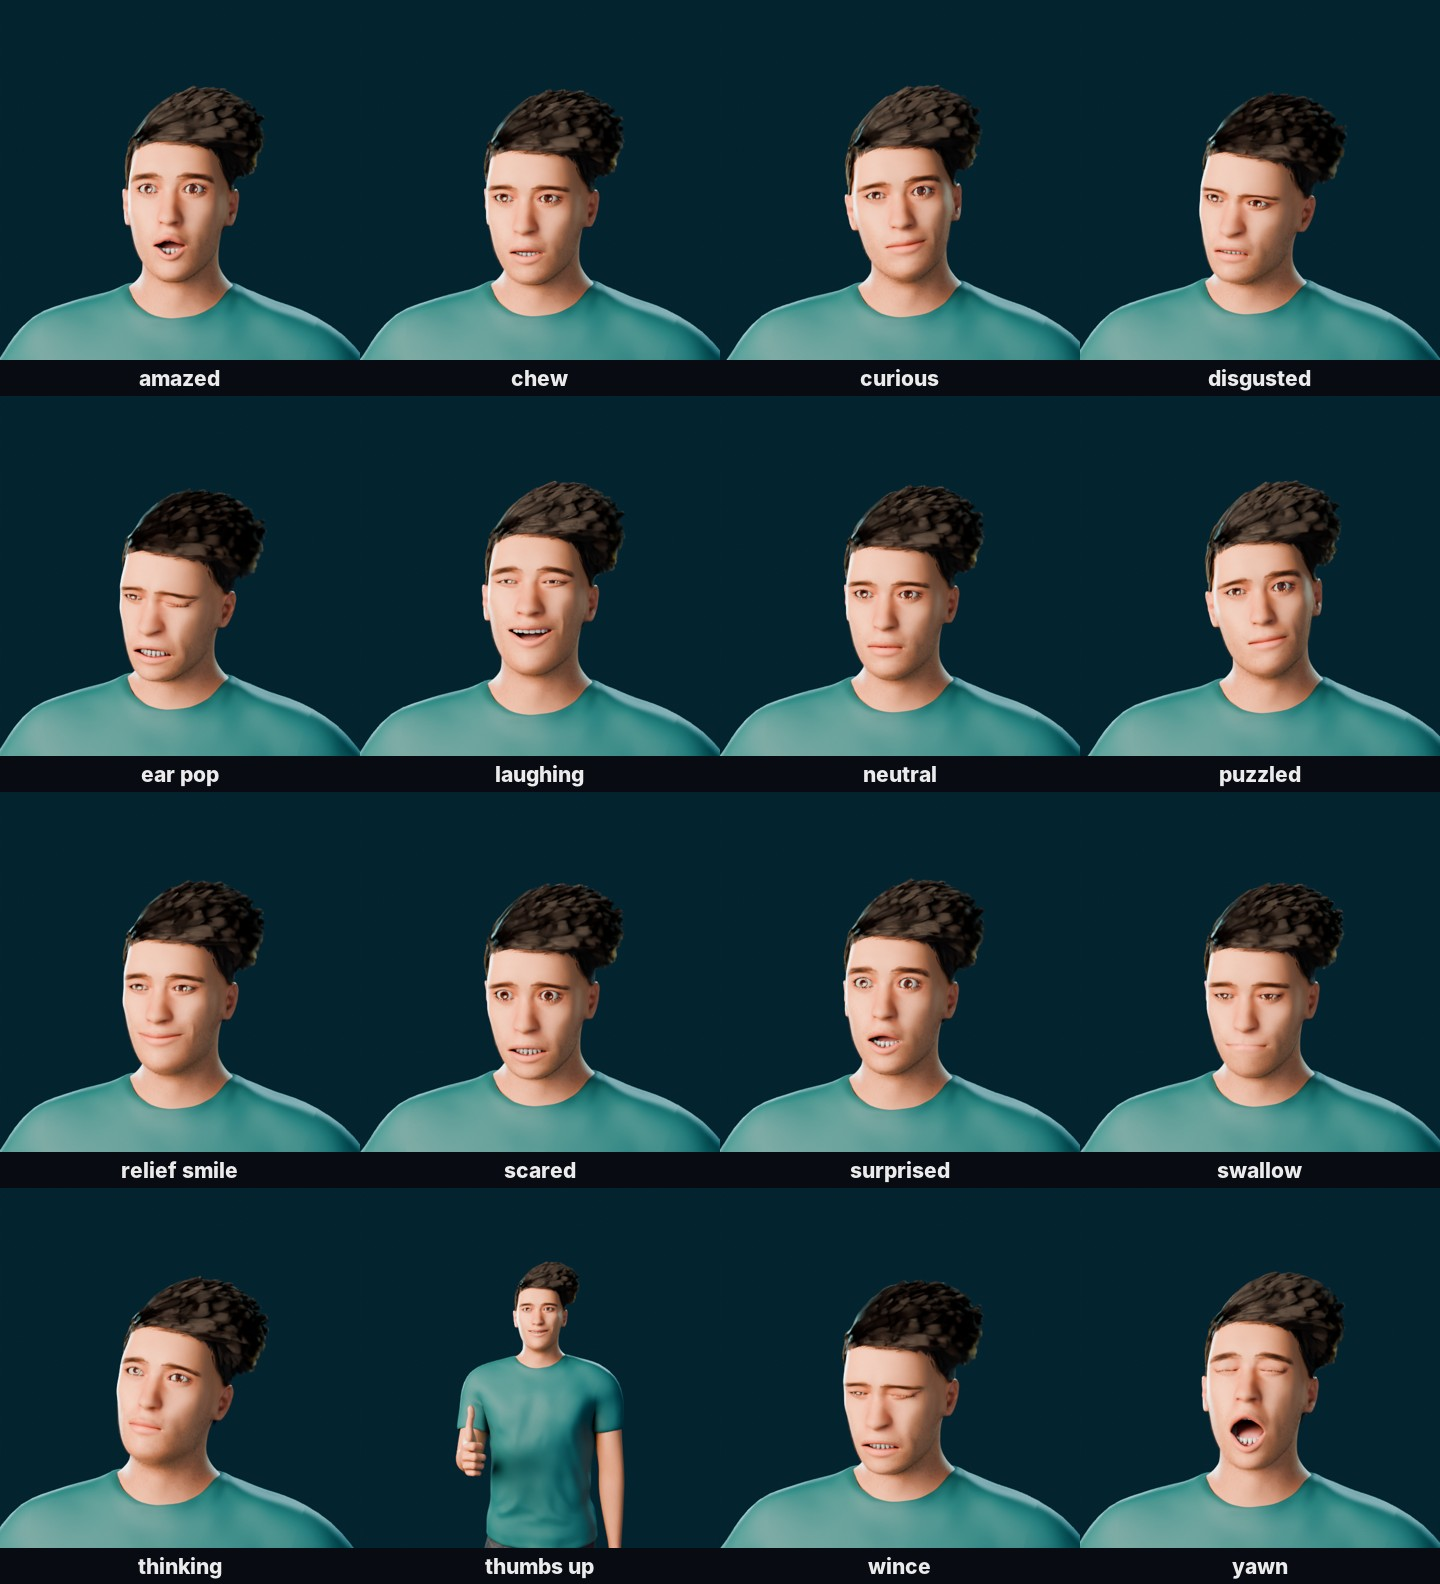
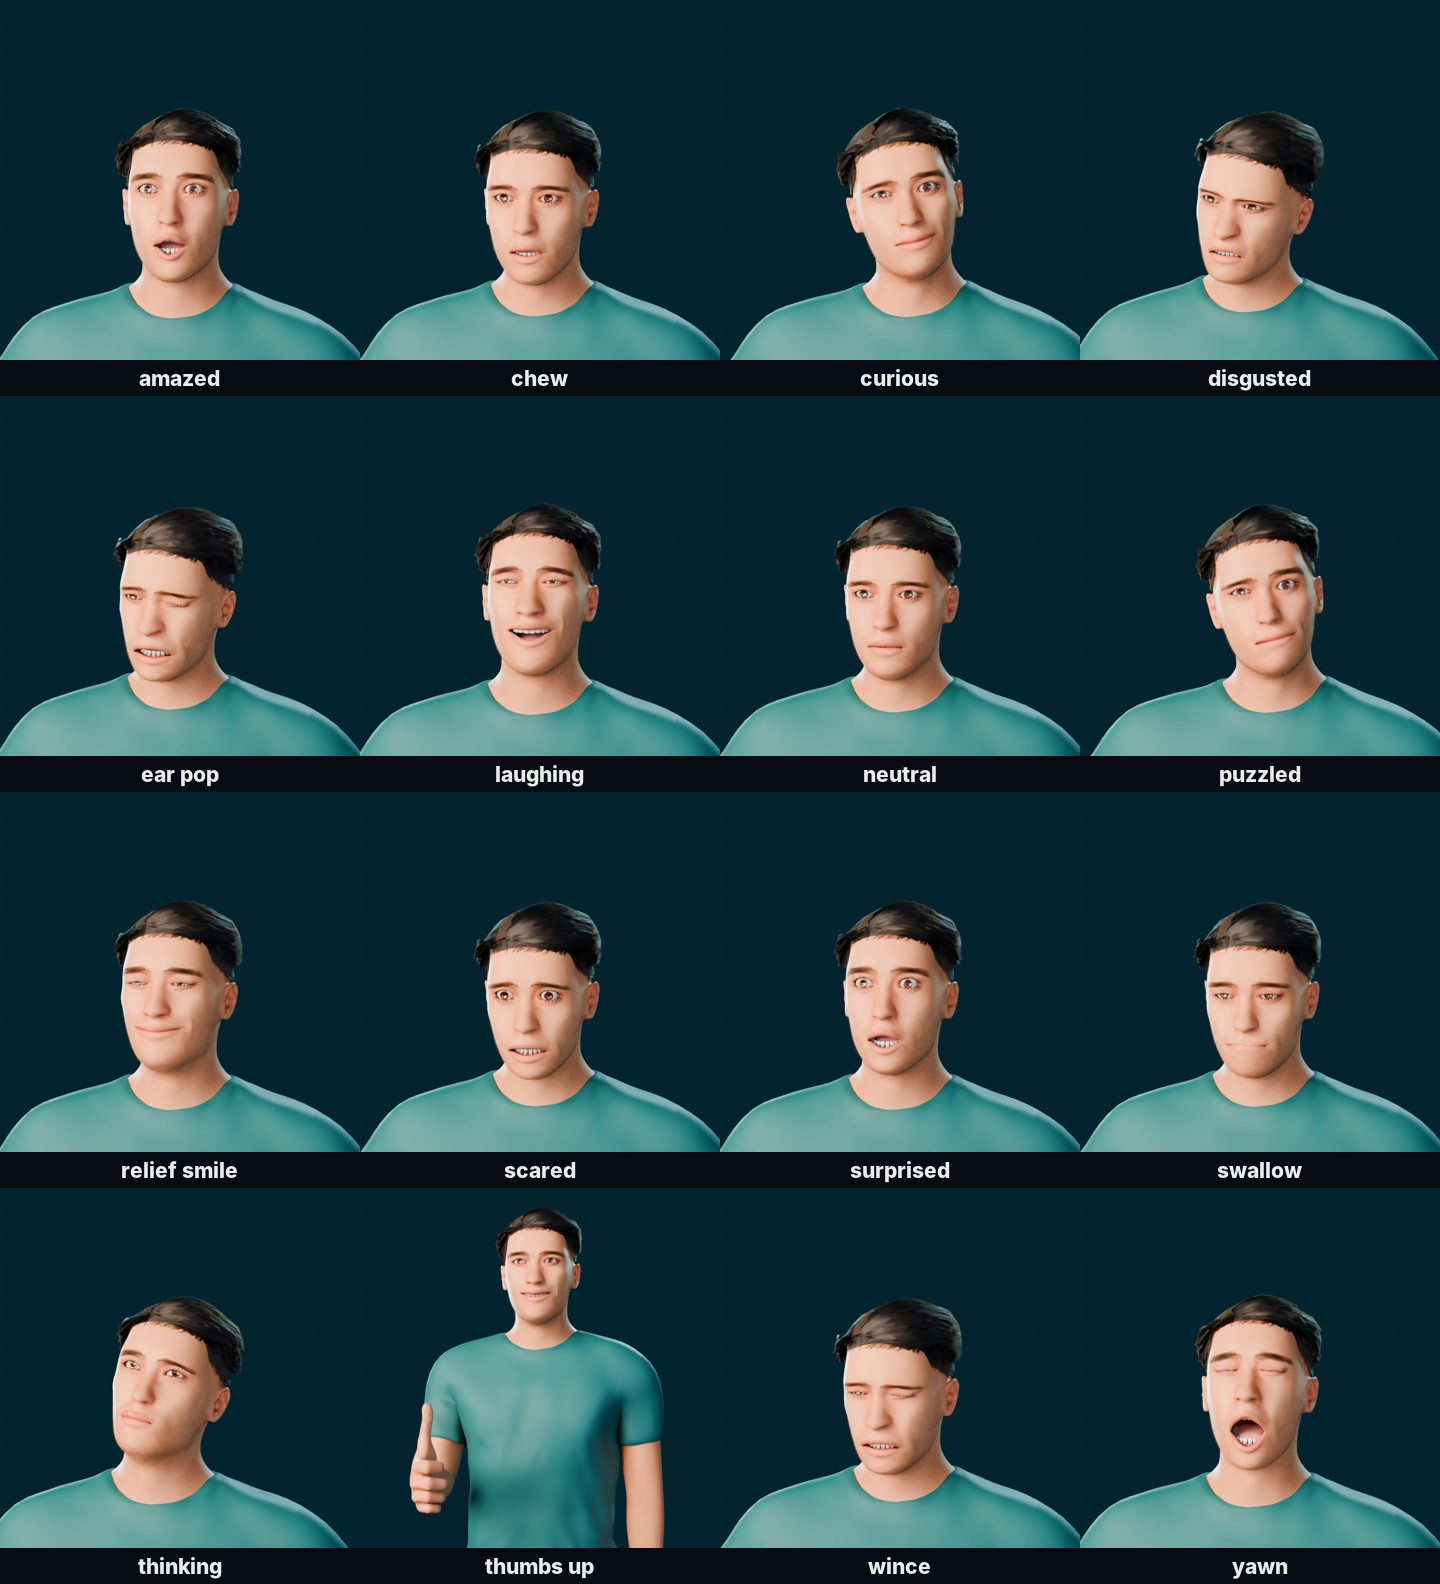
Max v4b review: neat-hair sheets, hair close-up, notes (Mac Metal, 64 spp)

diff --git a/assets/characters/max/review/max_v4_notes.md b/assets/characters/max/review/max_v4_notes.md
@@ -41,3 +41,39 @@ Source: `max_v4.blend` + `max_look.py --sheet` (Blender 5.2.3 LTS), Cycles 48 sa
 ## Turnaround
 - A-pose reads cleanly; clothes and shoes fine. Tile order is front / side / three quarter
   (alphabetical glob).
+
+## v4b (neat hair)
+
+Re-render of the rebuilt `max_v4.blend` (8736cc3): same Metal wrapper, **64 samples**, plus
+`max_v4_hair_closeup.jpg` (900x900, 3/4 front at 35°, 85 mm, 0.95 m from the head, neutral).
+- GPU: Apple M4 (GPU - 10 cores), METAL. Turnarounds 6.9-8.9 s, expressions 6.5-8.3 s (avg ~6.8 s),
+  close-up 9.8 s. Whole run 146 s.
+
+### Hair: much better, not done yet
+- No more scales, spikes or lopsided pile. At phone size it reads as a short, neat, tidy cut.
+  Volume is balanced left/right, and the sides are short and close to the skull.
+- Close-up issues:
+  - The fringe edge is a hard, jagged line straight across the forehead (a "helmet" edge),
+    not a soft hairline. It needs a thinner, sparser edge or shorter tips feathering into skin.
+  - Strands read as painted strokes / flat cards rather than individual strands, especially on top.
+    They have no sheen variation.
+  - Behind the ear the hair ends in a dark shell edge with a small notch and a bluish, shiny patch.
+    It looks like a cap rim, not a taper.
+  - The side part isn't visible from 3/4 front. It reads as combed forward / a crop.
+- Skin showing through: no bald gaps at the temples now. The back/sides (side turnaround) look like
+  a clean undercut. That's fine if intended.
+
+### Expressions (phone size)
+- Clearly better: curious (raised brow + half-smile), puzzled (asymmetric brow/mouth),
+  thinking (head tilt, eyes up), relief smile (soft eyes + smile), disgusted (lowered brow,
+  raised lip). All distinct now.
+- Still alike: neutral / chew / swallow. Chew and swallow need a visible jaw or throat cue.
+- thumbs up: chest-up now and the thumb reads. The hand is close to the left frame edge;
+  frame slightly tighter / more centred.
+- Teeth: still sparse/gappy lower teeth in surprised, scared and yawn.
+- Tearing: none seen at eyelids or mouth corners.
+
+### Eyes and skin
+- Catchlights: clear and bright in both eyes now; the eyes read wet and alive.
+- Skin: pores and stubble visible in the close-up; much less waxy. The forehead is still a little
+  smooth and shiny. No cyan rim glare.
